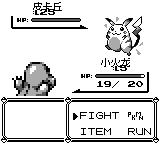
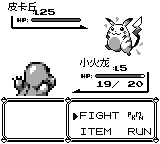
fix(tui): battle HUD 中文名改居左 —— 与 Lv 列重合概率更低

Changed region(s): [[0.0312, 0.0, 0.375, 0.0833], [0.5, 0.3889, 0.8125, 0.4722]]

diff --git a/crates/pokered-tui/src/render/battle.rs b/crates/pokered-tui/src/render/battle.rs
@@ -13,7 +13,7 @@ use pokered_renderer::battle_anim::{
     AnimEffect, AnimTickResult, AnimationPlayer, AnimationType, BattleEffects, MonRect, MonSide,
     ANIM_BASE_TILE_ID,
 };
-use pokered_renderer::embedded_font::{draw_text, measure_text};
+use pokered_renderer::embedded_font::draw_text;
 use pokered_renderer::battle_scene::{
     EnemyHud, PlayerHud, BallIndicators, BallStatus, StatusCondition,
 };
@@ -2529,15 +2529,20 @@ pub fn draw_battle(
         // tilemap/sprite blits (mirrors the app's zh HUD overlay).
         if is_zh {
             let text_color = Rgba::new(0, 0, 0, 255);
+            // Left-aligned at the HUD name origin — centering pushes 3+ char
+            // names right onto the "Lv" column below (CJK glyphs are 10px tall
+            // and their lower edge grazes the level row).
             if !hide_enemy_hud {
-                let w = measure_text(&enemy_name);
-                let x = ((12 * TILE_SIZE).saturating_sub(w)) / 2;
-                draw_text(&enemy_name, x, 0, text_color, fb);
+                draw_text(&enemy_name, EnemyHud::NAME_X * TILE_SIZE, 0, text_color, fb);
             }
             if !hide_player_hud {
-                let w = measure_text(&player_name);
-                let x = 9 * TILE_SIZE + ((11 * TILE_SIZE).saturating_sub(w)) / 2;
-                draw_text(&player_name, x, 7 * TILE_SIZE, text_color, fb);
+                draw_text(
+                    &player_name,
+                    PlayerHud::NAME_X * TILE_SIZE,
+                    PlayerHud::NAME_Y * TILE_SIZE,
+                    text_color,
+                    fb,
+                );
             }
             if matches!(screen.phase, BattlePhase::ShiftPrompt) {
                 // 是/否 replaces the YES/NO tiles (same box, hlcoord(2,9)/(2,11)).
